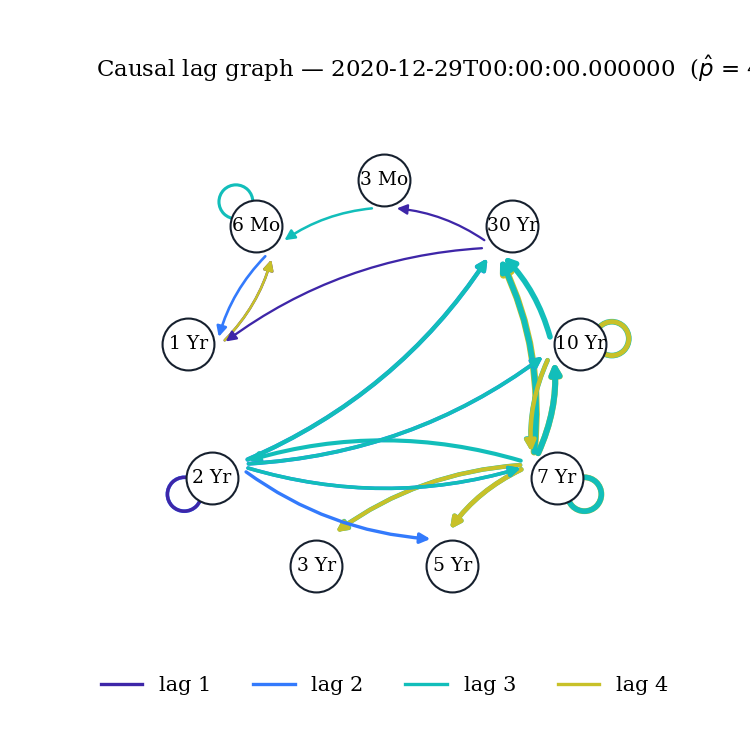
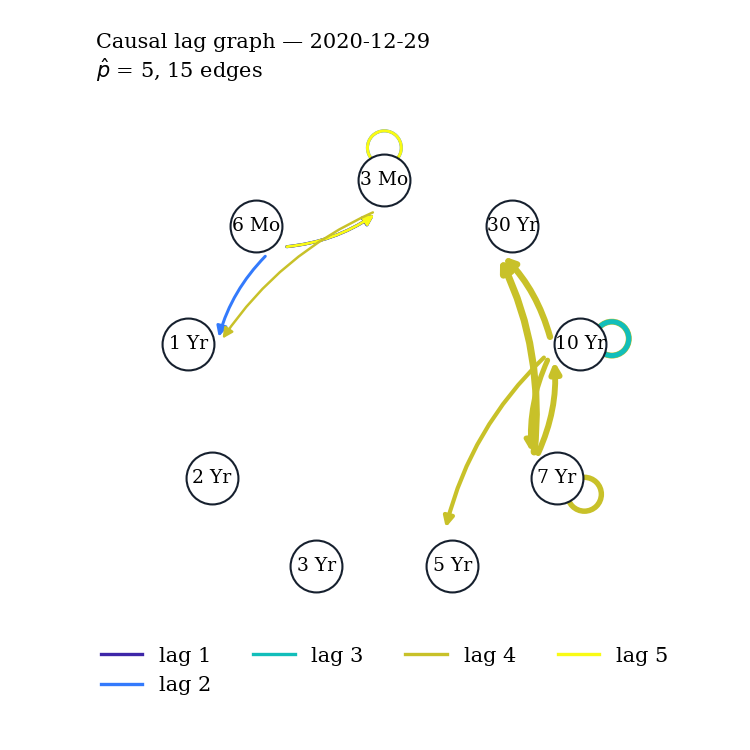
Regenerate the figures with the Extra Trees first stage, and fix their layout
The shipped figures now come from the full DML fit on the Treasury curve:
9,900 first-stage fits over 55 blocks, 3,192 output days, mean selected lag
1.74, 3.18 edges per window.

Figure fixes:
- lag tracking: headroom above p_max so the legend never covers a run at the
  maximum lag
- coefficient paths: thinned and rotated date ticks, which ran together in the
  narrow panels
- edge heatmap: cap the figure height and scale the labels, instead of
  emitting a figure two feet tall for n^2 rows; 1,785 KB down to 439 KB
- causal graph: the title carries a plain date and wraps onto a second line

Example:
- --cache saves and reuses the fit, so figure work no longer needs a refit
  (8 minutes down to seconds)
- per-figure raster resolution, and the written size is reported

Site: the six figures load lazily, so the heatmap no longer blocks the page.

diff --git a/docs/index.html b/docs/index.html
@@ -316,12 +316,12 @@ Edges are causal only under causal sufficiency: every common cause observed.</pr
     <p>The three starred off-diagonal entries are exactly the true cycle. Averaged over every window of the paper's full benchmark the estimates land on 0.584, 0.608 and 0.605 against a truth of 0.600.</p>
 
     <h3>Figures, from the shipped example</h3>
-    <figure><img src="assets/lag_tracking.png" alt="The adaptively selected lag order over time"><figcaption><strong>The adaptive lag order over time.</strong> The paper's Figure 4. In calm periods a single lag suffices; the order rises when the structure lengthens.</figcaption></figure>
-    <figure><img src="assets/lag_vs_volatility.png" alt="Selected lag order against realised volatility"><figcaption><strong>Lag order and market stress.</strong> The paper's Figure 5: the selected order plotted against 21-day realised volatility on a twin axis.</figcaption></figure>
-    <figure><img src="assets/coefficient_paths.png" alt="Coefficient paths with confidence bands"><figcaption><strong>Coefficient paths with confidence bands.</strong> The paper's Figure 3, plus the confidence band it does not draw. A band that stops containing zero is the edge switching on.</figcaption></figure>
-    <figure><img src="assets/edge_heatmap.png" alt="Heatmap of edge z-statistics through time"><figcaption><strong>Every edge's z-statistic through time</strong>, on the Parula scale. An addition: the whole sequence of graphs at a glance, rather than one window at a time.</figcaption></figure>
-    <figure><img src="assets/causal_graph.png" alt="The discovered causal lag graph"><figcaption><strong>The discovered causal lag graph.</strong> Edge width scales with the coefficient, colour encodes the lag. An addition.</figcaption></figure>
-    <figure><img src="assets/residual_diagnostics.png" alt="Residual diagnostics"><figcaption><strong>Residual diagnostics.</strong> Assumption (M) makes the innovations a martingale difference sequence; this is how you check that <code>p_max</code> was deep enough. An addition.</figcaption></figure>
+    <figure><img loading="lazy" decoding="async" src="assets/lag_tracking.png" alt="The adaptively selected lag order over time"><figcaption><strong>The adaptive lag order over time.</strong> The paper's Figure 4. In calm periods a single lag suffices; the order rises when the structure lengthens.</figcaption></figure>
+    <figure><img loading="lazy" decoding="async" src="assets/lag_vs_volatility.png" alt="Selected lag order against realised volatility"><figcaption><strong>Lag order and market stress.</strong> The paper's Figure 5: the selected order plotted against 21-day realised volatility on a twin axis.</figcaption></figure>
+    <figure><img loading="lazy" decoding="async" src="assets/coefficient_paths.png" alt="Coefficient paths with confidence bands"><figcaption><strong>Coefficient paths with confidence bands.</strong> The paper's Figure 3, plus the confidence band it does not draw. A band that stops containing zero is the edge switching on.</figcaption></figure>
+    <figure><img loading="lazy" decoding="async" src="assets/edge_heatmap.png" alt="Heatmap of edge z-statistics through time"><figcaption><strong>Every edge's z-statistic through time</strong>, on the Parula scale. An addition: the whole sequence of graphs at a glance, rather than one window at a time.</figcaption></figure>
+    <figure><img loading="lazy" decoding="async" src="assets/causal_graph.png" alt="The discovered causal lag graph"><figcaption><strong>The discovered causal lag graph.</strong> Edge width scales with the coefficient, colour encodes the lag. An addition.</figcaption></figure>
+    <figure><img loading="lazy" decoding="async" src="assets/residual_diagnostics.png" alt="Residual diagnostics"><figcaption><strong>Residual diagnostics.</strong> Assumption (M) makes the innovations a martingale difference sequence; this is how you check that <code>p_max</code> was deep enough. An addition.</figcaption></figure>
     <p>The full script is <a href="https://github.com/merwanroudane/oracle-varx/blob/main/examples/treasury_curve.py">examples/treasury_curve.py</a>, and every table and figure on this page comes from it.</p>
   </div>
 </section>

diff --git a/examples/treasury_curve.py b/examples/treasury_curve.py
@@ -75,6 +75,11 @@ def parse_args() -> argparse.Namespace:
         "--quick", action="store_true",
         help="use the linear first stage: seconds instead of minutes",
     )
+    parser.add_argument(
+        "--cache", type=Path, default=None,
+        help="reuse a saved fit if the file exists, and write it if it does not; "
+             "figure work then needs no refit",
+    )
     return parser.parse_args()
 
 
@@ -120,12 +125,24 @@ def main(args: argparse.Namespace | None = None) -> None:
     rule("Step 3 — estimate")
     print(f"first-stage learner: {learner}")
     started = time.time()
-    model = OracleVARX(
-        config, method="oracle-varx", learner=learner, seed=42, n_jobs=args.n_jobs
-    )
-    results = model.fit(Y, W)
+    if args.cache is not None and args.cache.exists():
+        import joblib
+
+        results = joblib.load(args.cache)
+        print(f"  loaded a saved fit from {args.cache}")
+    else:
+        model = OracleVARX(
+            config, method="oracle-varx", learner=learner, seed=42, n_jobs=args.n_jobs
+        )
+        results = model.fit(Y, W)
+        if args.cache is not None:
+            import joblib
+
+            args.cache.parent.mkdir(parents=True, exist_ok=True)
+            joblib.dump(results, args.cache)
+            print(f"  saved the fit to {args.cache}")
     print(results)
-    print(f"  fitted in           : {time.time() - started:.1f} s")
+    print(f"  ready in            : {time.time() - started:.1f} s")
 
     # ---------------------------------------------------------------- Step 4
     rule("Step 4 — the journal table for the last trading day")
@@ -185,10 +202,15 @@ def main(args: argparse.Namespace | None = None) -> None:
     fig, _ = results.plot_residual_diagnostics()
     figures["residual_diagnostics"] = fig
 
+    # The heatmap is one pixel column per output day, so it rasterises large;
+    # the documentation site has to stay quick to load.
+    raster_dpi = {"edge_heatmap": 90}
+
     for name, figure in figures.items():
-        figure.savefig(ASSETS / f"{name}.png", dpi=150)
+        figure.savefig(ASSETS / f"{name}.png", dpi=raster_dpi.get(name, 150))
         figure.savefig(ASSETS / f"{name}.pdf")
-        print(f"  wrote docs/assets/{name}.png and .pdf")
+        size_kb = (ASSETS / f"{name}.png").stat().st_size / 1024
+        print(f"  wrote docs/assets/{name}.png ({size_kb:.0f} KB) and .pdf")
 
     # ---------------------------------------------------------------- Step 10
     rule("Step 10 — export the table")

diff --git a/src/oracle_varx/_plots.py b/src/oracle_varx/_plots.py
@@ -122,6 +122,8 @@ def plot_lag_tracking(
         ax.set_xlabel("time" if results.index is None else "date")
         ax.set_ylabel("lag order")
         ax.set_yticks(np.arange(0, results.p_max + 1))
+        # Headroom so the legend never sits on top of a run at the maximum lag.
+        ax.set_ylim(-0.25, results.p_max + 0.9)
         ax.set_title(
             title or "Adaptive lag order over time", loc="left"
         )
@@ -221,6 +223,12 @@ def plot_coefficient_paths(
             ax.set_xlabel("time" if results.index is None else "date")
         for row in axes:
             row[0].set_ylabel("coefficient")
+        # The panels are narrow, so a full set of date ticks runs together.
+        for ax in flat[: len(edges)]:
+            ax.xaxis.set_major_locator(plt.MaxNLocator(4))
+            for label in ax.get_xticklabels():
+                label.set_rotation(30)
+                label.set_horizontalalignment("right")
         flat[0].legend(loc="upper right")
         fig.tight_layout()
     return fig, axes
@@ -279,15 +287,20 @@ def plot_edge_heatmap(
         vmin = vmax = None
 
     with plt.rc_context(JOURNAL_RC):
+        # With n series there are n^2 rows, so the natural per-row height runs
+        # away quickly; cap it and shrink the labels instead of emitting a
+        # figure several feet tall.
+        height = min(0.28 * len(labels) + 1.6, 9.5)
+        label_size = 7 if len(labels) <= 36 else max(3.6, 260 / len(labels))
         fig, ax = (ax.figure, ax) if ax is not None else plt.subplots(
-            figsize=(7.2, 0.28 * len(labels) + 1.6)
+            figsize=(7.6, height)
         )
         image = ax.imshow(
             matrix, aspect="auto", origin="lower", cmap=cmap, vmin=vmin, vmax=vmax,
             extent=(0, matrix.shape[1], -0.5, len(labels) - 0.5),
         )
         ax.set_yticks(range(len(labels)))
-        ax.set_yticklabels(labels, fontsize=7)
+        ax.set_yticklabels(labels, fontsize=label_size)
         ax.set_xlabel("output day")
         ax.set_title(
             f"{statistic} statistic at lag {lag}", loc="left"
